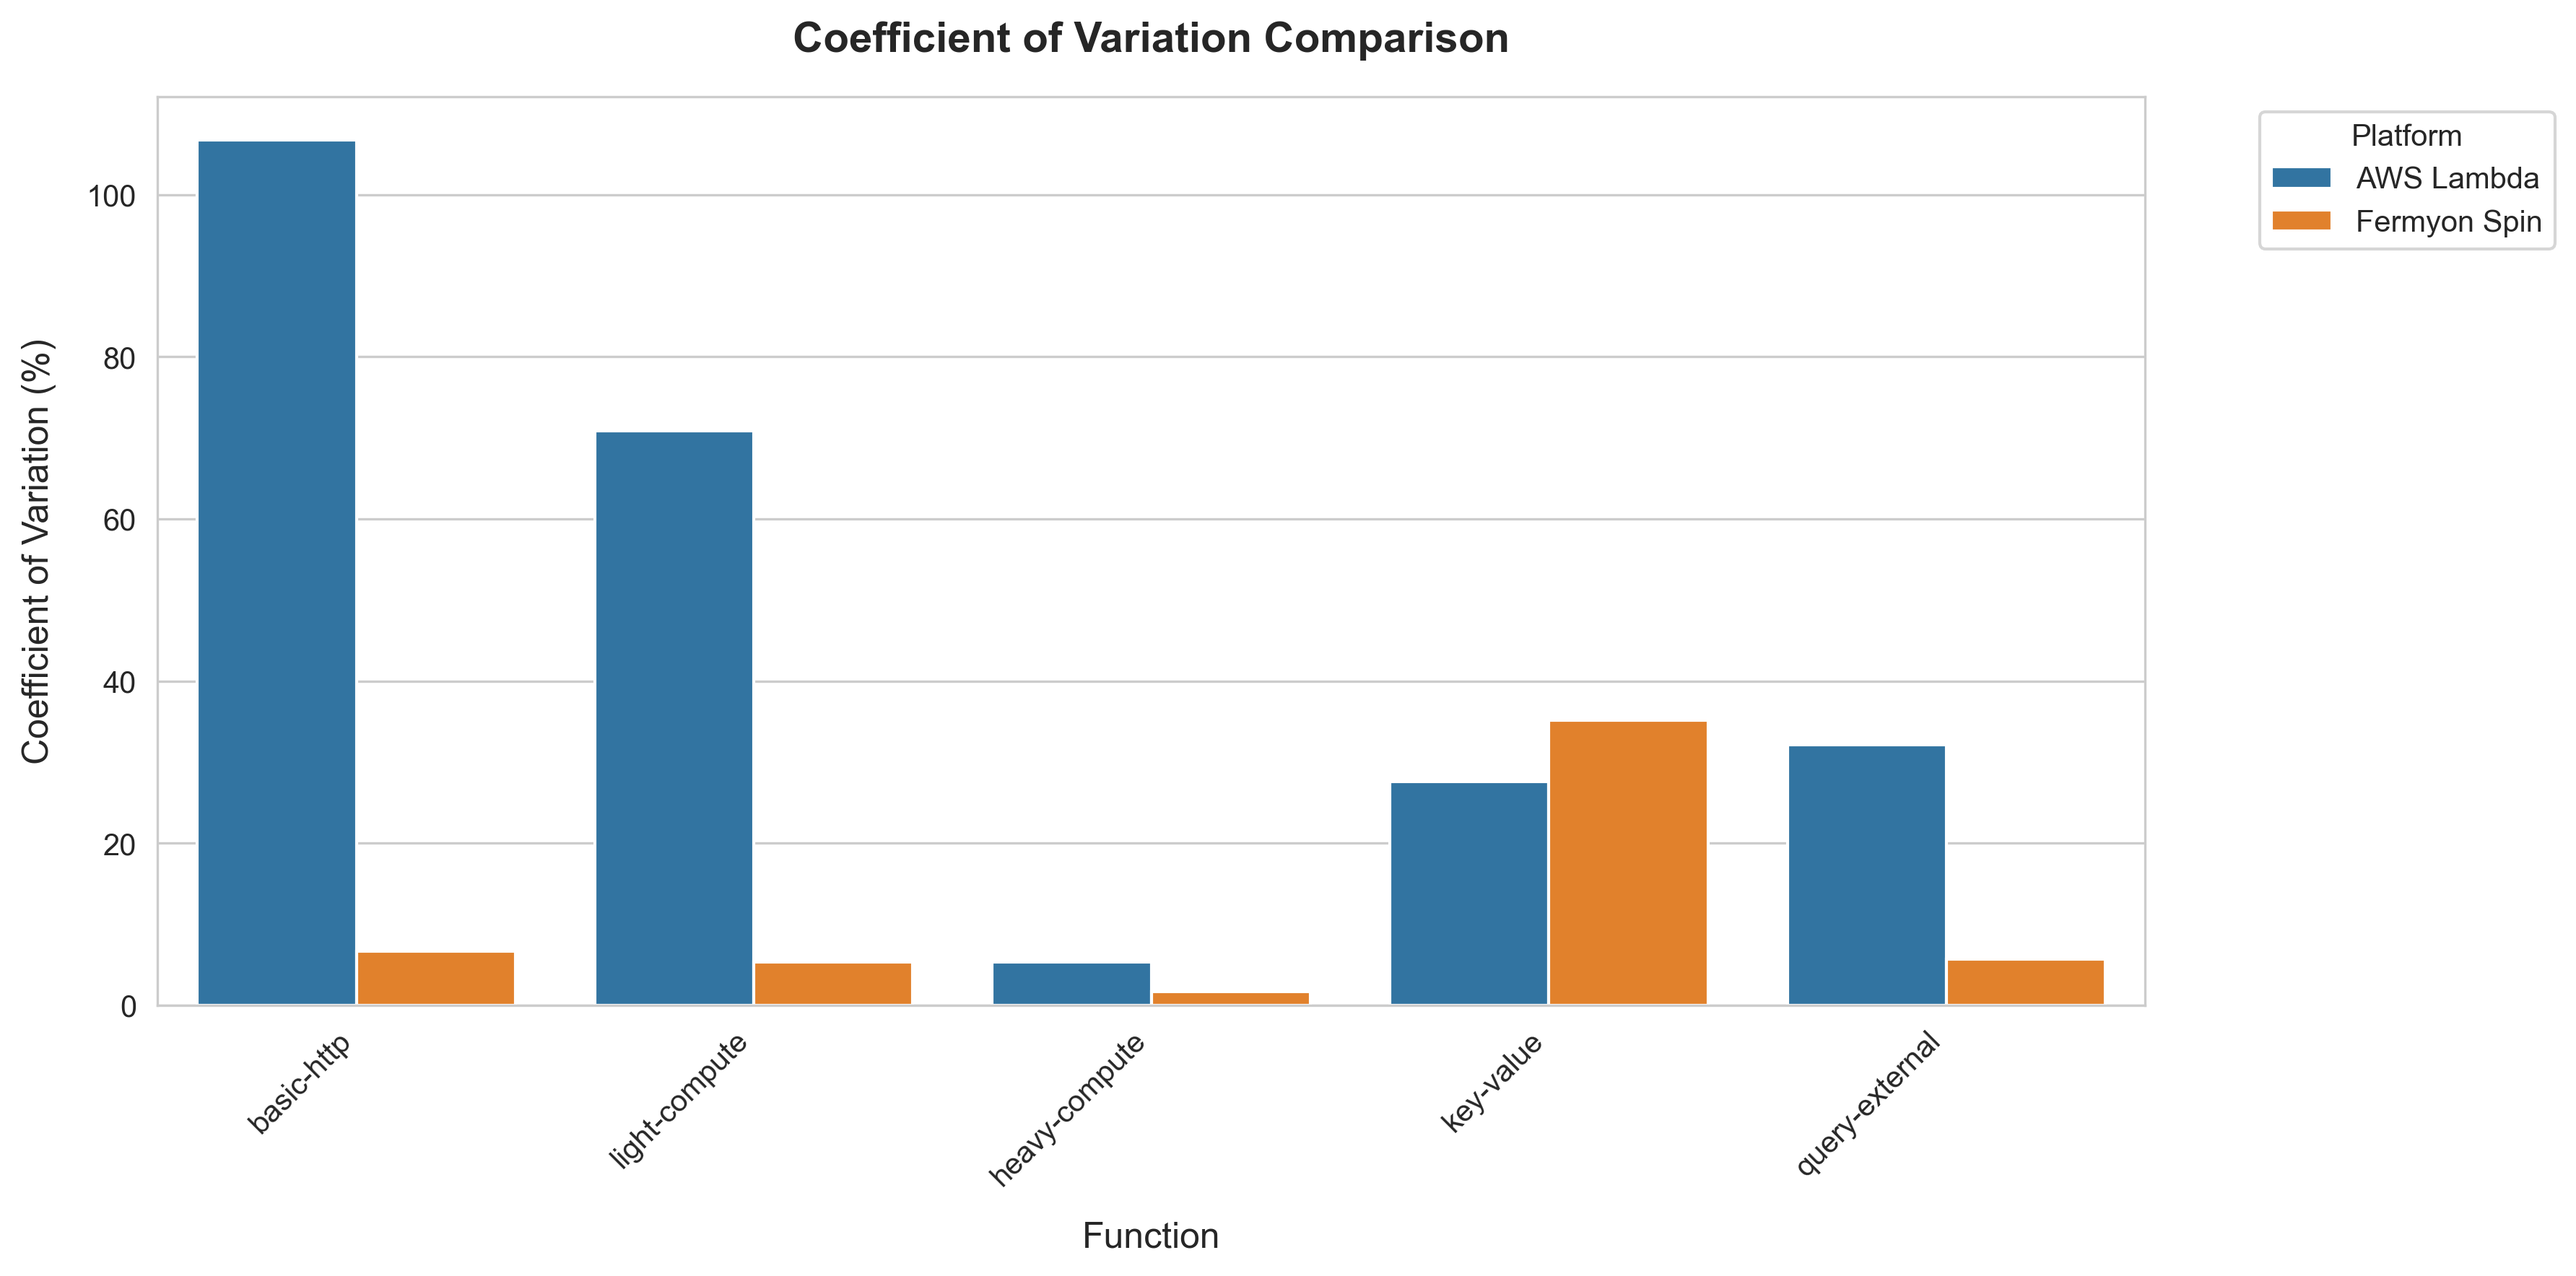
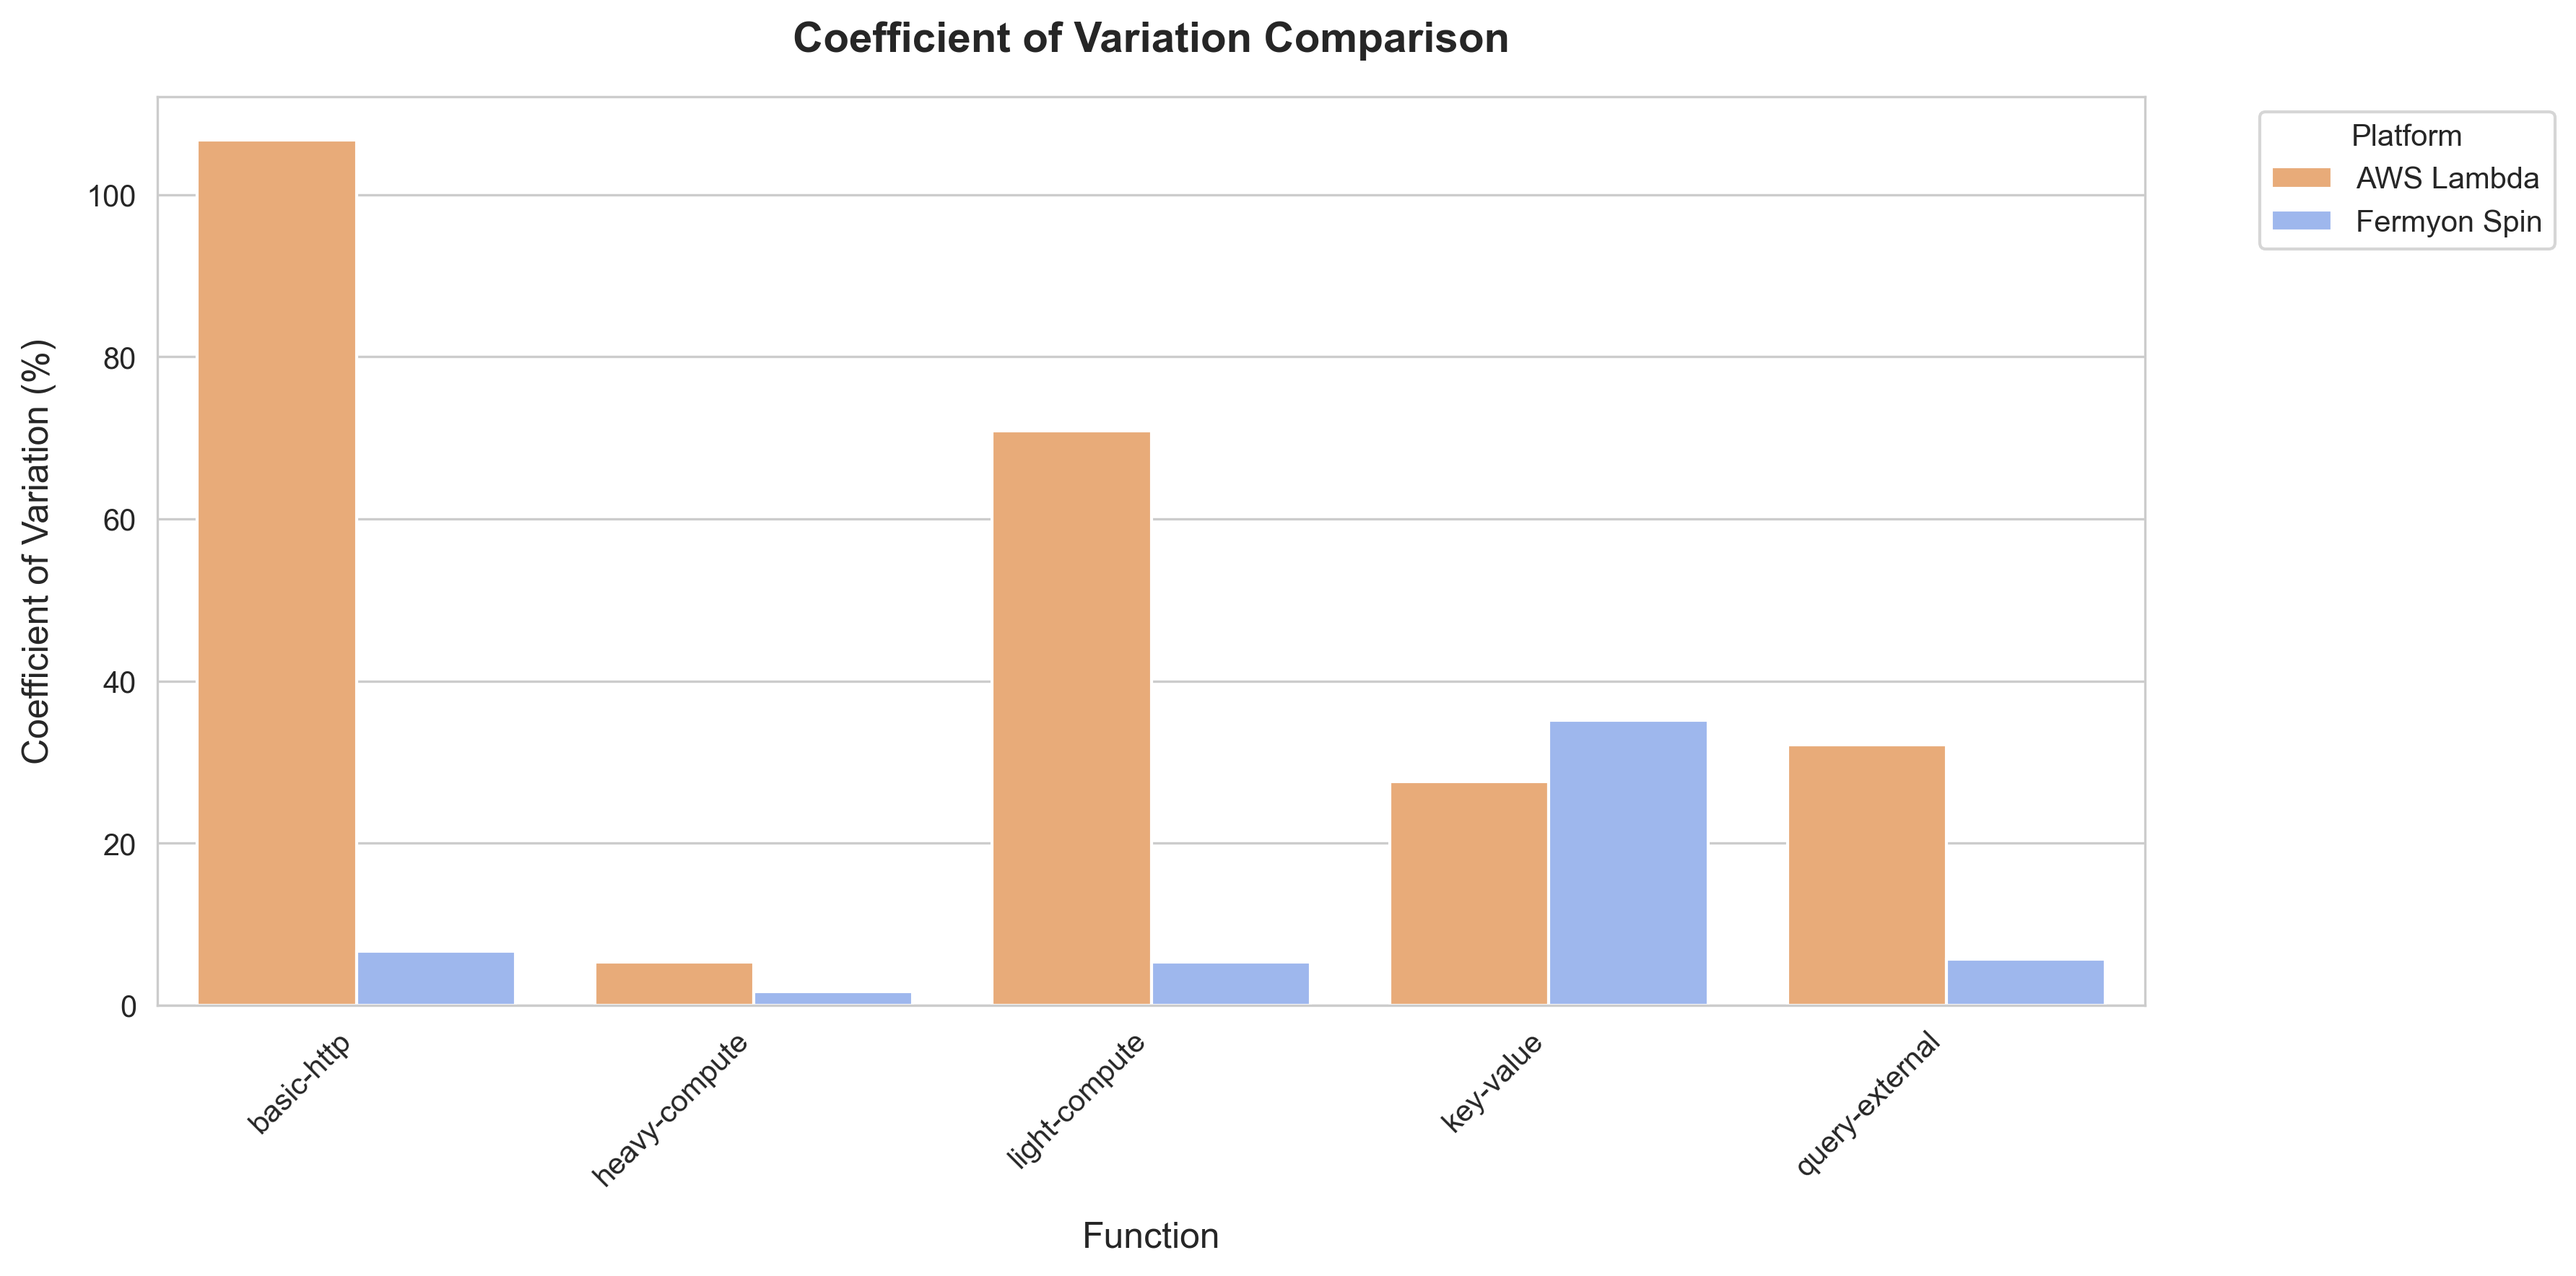
modify implementation

diff --git a/scripts/h1_execution_performance.py b/scripts/h1_execution_performance.py
@@ -12,9 +12,20 @@ os.makedirs(os.path.join(OUTPUT_DIR, "reports"), exist_ok=True)
 os.makedirs(os.path.join(OUTPUT_DIR, "figures"), exist_ok=True)
 
 # Define consistent ordering and colors
-FUNCTION_ORDER = ['basic-http', 'light-compute', 'heavy-compute', 'key-value', 'query-external']
-PLATFORM_ORDER = ['AWS Lambda', 'Fermyon Spin']  # AWS first for consistent ordering
-PLATFORM_COLORS = {'AWS Lambda': '#1f77b4', 'Fermyon Spin': '#ff7f0e'}  # Consistent with speedup_ratio colors
+FUNCTION_ORDER = ['basic-http', 'heavy-compute', 'light-compute', 'key-value', 'query-external']
+PLATFORM_ORDER = ['AWS Lambda', 'Fermyon Spin']
+
+# Color palette
+custom_palette = {
+    "AWS Lambda": "#faa966",
+    "Fermyon Spin": "#91b2fa"
+}
+
+PLATFORM_COLORS = {
+    'AWS Lambda': custom_palette["AWS Lambda"],
+    'Fermyon Spin': custom_palette["Fermyon Spin"]
+}
+
 SIGNIFICANCE_COLOR = '#d62728'  # Red for significant results
 INSIGNIFICANT_COLOR = '#aec7e8'  # Blue for non-significant
 
@@ -101,7 +112,7 @@ def analyze_execution_performance(df):
 
     # Calculate function statistics with consistent ordering
     df_exec['name'] = pd.Categorical(df_exec['name'], categories=FUNCTION_ORDER, ordered=True)
-    function_stats = df_exec.groupby(['name', 'platform'])['execution_ms'].apply(calculate_stats).unstack()
+    function_stats = df_exec.groupby(['name', 'platform'], observed=True)['execution_ms'].apply(calculate_stats).unstack()
     function_stats.to_csv(os.path.join(OUTPUT_DIR, "reports", "function_execution_stats.csv"))
 
     return df_exec, platform_stats, function_stats
@@ -164,8 +175,6 @@ def perform_comparative_analysis(df_exec, normality_df=None):
 
 def generate_visualizations(df_exec, comparison_df):
     """Generate all visualizations with consistent styling and ordering"""
-    
-    # Ensure consistent ordering
     df_exec['name'] = pd.Categorical(df_exec['name'], categories=FUNCTION_ORDER, ordered=True)
     comparison_df['function'] = pd.Categorical(comparison_df['function'], categories=FUNCTION_ORDER, ordered=True)
     
@@ -203,23 +212,30 @@ def generate_visualizations(df_exec, comparison_df):
                 dpi=300, bbox_inches='tight')
     plt.close()
     
-    # 3. Mean Execution Comparison (with significance stars)
+    # 3. Mean Execution Comparison
     plt.figure(figsize=(12, 6))
-    plot_df = pd.DataFrame({
-        'function': np.concatenate([comparison_df['function'], comparison_df['function']]),
-        'platform': PLATFORM_ORDER * len(comparison_df),
-        'mean_time': np.concatenate([comparison_df['aws_mean'], comparison_df['fermyon_mean']])
+    comparison_df['function'] = pd.Categorical(comparison_df['function'], categories=FUNCTION_ORDER, ordered=True)
+
+    plot_df = comparison_df.melt(
+    id_vars=['function'],
+    value_vars=['aws_mean', 'fermyon_mean'],
+    var_name='platform',
+    value_name='mean_time'
+    )
+
+    # Map to readable platform names
+    plot_df['platform'] = plot_df['platform'].map({
+        'aws_mean': 'AWS Lambda',
+        'fermyon_mean': 'Fermyon Spin'
     })
-    
-    ax = sns.barplot(x='function', y='mean_time', hue='platform', data=plot_df,
-                     palette=PLATFORM_COLORS, hue_order=PLATFORM_ORDER)
 
-    for i, row in comparison_df.iterrows():
-        if row['is_significant']:
-            ax.text(i, max(row['fermyon_mean'], row['aws_mean']) * 1.1, "*", 
-                    ha='center', va='bottom', fontsize=20, color=SIGNIFICANCE_COLOR)
+    plt.figure(figsize=(12, 6))
+    ax = sns.barplot(
+        x='function', y='mean_time', hue='platform',
+        data=plot_df, palette=PLATFORM_COLORS, hue_order=PLATFORM_ORDER
+    )
 
-    plt.title("Mean Execution Time Comparison\n(* = statistically significant difference)", 
+    plt.title("Mean Execution Time Comparison\n", 
               weight='bold', pad=15)
     plt.ylabel("Mean Execution Time (ms)", labelpad=10)
     plt.xlabel("Function", labelpad=10)
@@ -232,11 +248,10 @@ def generate_visualizations(df_exec, comparison_df):
     
     # 4. Performance Difference Bar Plot (Fermyon vs AWS)
     plt.figure(figsize=(12, 6))
-    ax = sns.barplot(x='function', y='mean_difference', data=comparison_df,
-                     palette=comparison_df['is_significant'].map({
-                         True: SIGNIFICANCE_COLOR,
-                         False: INSIGNIFICANT_COLOR
-                     }))
+    ax = sns.barplot(x='function', y='mean_difference', hue='is_significant',
+                 data=comparison_df,
+                 palette={True: SIGNIFICANCE_COLOR, False: INSIGNIFICANT_COLOR},
+                 dodge=False)
     plt.axhline(0, color='black', linestyle='--')
     plt.title("Performance Difference (Fermyon Mean - AWS Mean)\nRed = statistically significant", 
               weight='bold', pad=15)
@@ -254,47 +269,58 @@ def generate_visualizations(df_exec, comparison_df):
     plt.savefig(os.path.join(OUTPUT_DIR, "figures", "performance_difference_barplot.png"), 
                 dpi=300, bbox_inches='tight')
     plt.close()
+
+    # 5. Box plot comparing execution time by platform and function
+    plt.figure(figsize=(10, 6))
+    sns.set_style("whitegrid", {'grid.linestyle': '--', 'grid.alpha': 0.4})
     
-    # 5. Platform Execution Boxplot
-    plt.figure(figsize=(12, 6))
-    sns.boxplot(x='name', y='execution_ms', hue='platform', data=df_exec,
-                palette=PLATFORM_COLORS, hue_order=PLATFORM_ORDER)
-    plt.title("Execution Time Distribution by Platform", weight='bold', pad=15)
-    plt.ylabel("Execution Time (ms)", labelpad=10)
-    plt.xlabel("Function", labelpad=10)
-    plt.xticks(rotation=45, ha='right')
-    plt.legend(title='Platform', bbox_to_anchor=(1.05, 1), loc='upper left')
-    plt.tight_layout()
-    plt.savefig(os.path.join(OUTPUT_DIR, "figures", "platform_execution_boxplot.png"), 
-                dpi=300, bbox_inches='tight')
-    plt.close()
-    
-    # 6. Speedup Ratio (using consistent colors)
-    speedup_df = comparison_df.assign(
-        speedup_ratio=lambda x: x["aws_mean"] / x["fermyon_mean"]
+    # Create the boxplot - simple platform comparison
+    ax = sns.boxplot(
+        data=df_exec,
+        x='platform',
+        y='execution_ms',
+        order=PLATFORM_ORDER,
+        palette=PLATFORM_COLORS,
+        width=0.5,
+        linewidth=2,
+        showfliers=True,
+        showmeans=True, 
+        meanprops={'marker':'o', 
+                 'markerfacecolor':'white',
+                 'markeredgecolor':'black',
+                 'markersize':'8'}
     )
     
-    plt.figure(figsize=(12, 6))
-    ax = sns.barplot(x='function', y='speedup_ratio', hue='is_significant',
-                     data=speedup_df, palette={True: SIGNIFICANCE_COLOR, False: INSIGNIFICANT_COLOR}, 
-                     dodge=False)
+    # Title and labels focused on hypothesis testing
+    ax.set_title(
+        "Execution Time: Fermyon (Wasm) vs AWS (microVM)\n" + 
+        "Hypothesis 1: Wasm executes business logic faster than microVMs",
+        weight='bold', 
+        pad=15,
+        fontsize=12
+    )
+    ax.set_ylabel("Execution Time (ms)", labelpad=10)
+    ax.set_xlabel("")
 
-    plt.axhline(1, color='black', linestyle='--')
-    plt.title("Speedup Ratio (AWS Mean Time / Fermyon Mean Time)\nRed = statistically significant", 
-              weight='bold', pad=15)
-    plt.ylabel("Speedup Ratio", labelpad=10)
-    plt.xlabel("Function", labelpad=10)
-    plt.xticks(rotation=45, ha='right')
+    if df_exec['execution_ms'].max() / df_exec['execution_ms'].min() > 100:
+        ax.set_yscale('log')
+        ax.set_ylabel("Execution Time (ms, log scale)", labelpad=10)
+        plt.text(0.02, 0.95, "Note: Y-axis is log-scaled", 
+               transform=ax.transAxes, fontsize=9, alpha=0.7)
 
-    for p in ax.patches:
-        ax.annotate(f"{p.get_height():.1f}x", (p.get_x() + p.get_width() / 2., p.get_height()),
-                    ha='center', va='center', xytext=(0, 10), textcoords='offset_points')
-
-    plt.legend([], [], frameon=False)
+    max_y = df_exec['execution_ms'].max() * 1.1
+    ax.plot([0, 1], [max_y, max_y], color='black', lw=1)
+    ax.text(0.5, max_y*1.05, "*** p < 0.001", 
+           ha='center', va='bottom', fontsize=10)
+    sns.despine()
     plt.tight_layout()
-    plt.savefig(os.path.join(OUTPUT_DIR, "figures", "speedup_ratio.png"), 
-                dpi=300, bbox_inches='tight')
+    
+    # Save
+    output_path = os.path.join(OUTPUT_DIR, "figures", "platform_comparison_boxplot.png")
+    plt.savefig(output_path, dpi=300, bbox_inches='tight')
     plt.close()
+    
+    print(f"Saved: {output_path}")
 
 
 def generate_report(comparison_df, normality_df):
